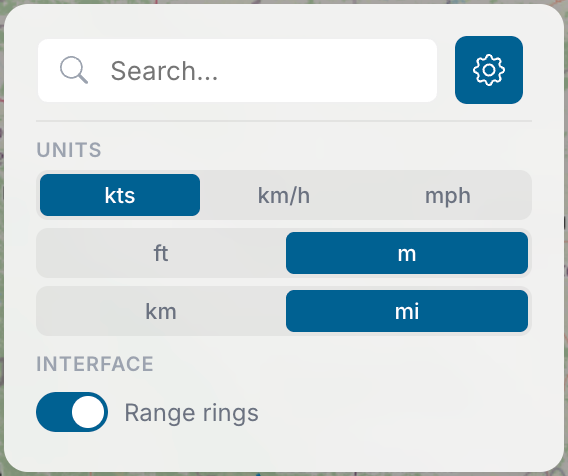
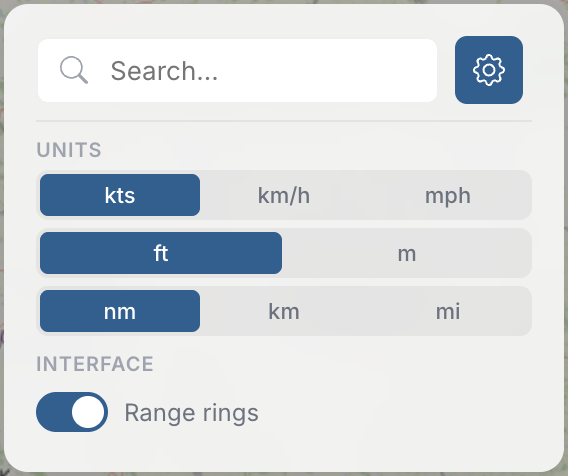
Add nautical miles as default distance unit and fix Web Map aircraft database field mappings

diff --git a/src/Aeromux.CLI/Commands/Daemon/WebMap/Components/AircraftDetail.jsx b/src/Aeromux.CLI/Commands/Daemon/WebMap/Components/AircraftDetail.jsx
@@ -107,18 +107,19 @@ export function AircraftDetail({ detail, expired, units, receiverLocation, onBac
                 ) : (
                     <div class="section-fields">
                         <DetailField label="Registration" value={db.Registration} />
-                        <DetailField label="Country" value={db.RegistrationCountry} />
+                        <DetailField label="Country" value={db.Country} />
                         <DetailField label="Operator" value={db.OperatorName} />
-                        <DetailField label="Manufacturer" value={db.ManufacturerName || db.ManufacturerICAO} />
-                        <DetailField label="Type" value={db.TypeDescription || db.TypeDesignator} />
-                        <DetailField label="Model" value={db.AircraftModel} />
+                        <DetailField label="Manufacturer Name" value={db.ManufacturerName} />
+                        <DetailField label="Type Description" value={db.TypeDescription} />
+                        <DetailField label="Aircraft Model" value={db.Model} />
                         {showMore.db && (
                             <>
-                                <DetailField label="Type Class ICAO" value={db.TypeClassICAO} />
-                                <DetailField label="Type Designator" value={db.TypeDesignator} />
-                                <DetailField label="FAA PIA" value={fmtBool(db.FlagPIA)} />
-                                <DetailField label="FAA LADD" value={fmtBool(db.FlagLADD)} />
-                                <DetailField label="Military" value={fmtBool(db.FlagMilitary)} />
+                                <DetailField label="Manufacturer ICAO" value={db.ManufacturerIcao} />
+                                <DetailField label="Type Class ICAO" value={db.TypeIcaoClass} />
+                                <DetailField label="Type Designator" value={db.TypeCode} />
+                                <DetailField label="FAA PIA" value={fmtBool(db.Pia)} />
+                                <DetailField label="FAA LADD" value={fmtBool(db.Ladd)} />
+                                <DetailField label="Military" value={fmtBool(db.Military)} />
                             </>
                         )}
                     </div>

diff --git a/src/Aeromux.CLI/Commands/Daemon/WebMap/Map/MapManager.js b/src/Aeromux.CLI/Commands/Daemon/WebMap/Map/MapManager.js
@@ -322,9 +322,9 @@ export function getViewportBounds() {
     };
 }
 
-// Range rings — distances in statute miles, converted to km for haversine calculations
-const RANGE_MI = [115, 175, 235];
-const MI_TO_KM = 1.60934;
+// Range rings — distances in nautical miles, converted to km for haversine calculations
+const RANGE_NM = [100, 150, 200];
+const NM_TO_KM = 1.852;
 let rangeRingsAdded = false;
 let pendingRangeRings = null;
 
@@ -439,24 +439,26 @@ export function updateRangeRings(lat, lon, visible, distanceUnit) {
         return;
     }
 
-    // Build ring polygons — convert statute miles to km for the haversine circle generator
-    const ringFeatures = RANGE_MI.map(mi => ({
+    // Build ring polygons — convert nautical miles to km for the haversine circle generator
+    const ringFeatures = RANGE_NM.map(nm => ({
         type: 'Feature',
-        geometry: { type: 'LineString', coordinates: generateCircleCoords(lat, lon, mi * MI_TO_KM) },
+        geometry: { type: 'LineString', coordinates: generateCircleCoords(lat, lon, nm * NM_TO_KM) },
         properties: {}
     }));
 
     // Build label points (at north edge of each ring)
-    const labelFeatures = RANGE_MI.map(mi => {
-        const radiusKm = mi * MI_TO_KM;
+    const labelFeatures = RANGE_NM.map(nm => {
+        const radiusKm = nm * NM_TO_KM;
         const coords = generateCircleCoords(lat, lon, radiusKm, 64);
         // North point is at index 0 (bearing 0)
         const northPt = coords[0];
         let label;
-        if (distanceUnit === 'mi') {
-            label = `${mi} mi`;
+        if (distanceUnit === 'nm') {
+            label = `${nm} nm`;
+        } else if (distanceUnit === 'mi') {
+            label = `${Math.round(nm * 1.15078)} mi`;
         } else {
-            label = `${Math.round(mi * MI_TO_KM)} km`;
+            label = `${Math.round(nm * NM_TO_KM)} km`;
         }
         return {
             type: 'Feature',

diff --git a/src/Aeromux.CLI/Commands/Daemon/WebMap/Services/UnitConversion.js b/src/Aeromux.CLI/Commands/Daemon/WebMap/Services/UnitConversion.js
@@ -20,7 +20,7 @@ const STORAGE_KEY = 'aeromux-units';
 const DEFAULTS = {
     speed: 'kts',
     altitude: 'ft',
-    distance: 'km'
+    distance: 'nm'
 };
 
 // Aircraft list sort column and direction persisted across sessions
@@ -80,6 +80,8 @@ export function saveSettings(settings) {
 
 export function convertNauticalMiles(nm, unit) {
     switch (unit) {
+        case 'nm':
+            return { value: Math.round(nm), label: 'nm' };
         case 'mi':
             return { value: Math.round(nm * 1.15078), label: 'mi' };
         default:
@@ -137,6 +139,8 @@ export function convertAltitude(feet, unit) {
 export function convertDistance(km, unit) {
     if (km == null) return { value: null, label: unit };
     switch (unit) {
+        case 'nm':
+            return { value: (km / 1.852).toFixed(1), label: 'nm' };
         case 'mi':
             return { value: (km * 0.621371).toFixed(1), label: 'mi' };
         default:

diff --git a/src/Aeromux.CLI/Commands/Daemon/WebMap/Components/ControlPanel.jsx b/src/Aeromux.CLI/Commands/Daemon/WebMap/Components/ControlPanel.jsx
@@ -168,6 +168,7 @@ export function ControlPanel({ units, onUnitsChange, settings, onSettingsChange,
                         <button class={`unit-btn${units.altitude === 'm' ? ' active' : ''}`} onClick={() => setUnit('altitude', 'm')}>m</button>
                     </div>
                     <div class="unit-group">
+                        <button class={`unit-btn${units.distance === 'nm' ? ' active' : ''}`} onClick={() => setUnit('distance', 'nm')}>nm</button>
                         <button class={`unit-btn${units.distance === 'km' ? ' active' : ''}`} onClick={() => setUnit('distance', 'km')}>km</button>
                         <button class={`unit-btn${units.distance === 'mi' ? ' active' : ''}`} onClick={() => setUnit('distance', 'mi')}>mi</button>
                     </div>

diff --git a/src/Aeromux.CLI/Commands/Live/LiveAircraftTableBuilder.cs b/src/Aeromux.CLI/Commands/Live/LiveAircraftTableBuilder.cs
@@ -202,11 +202,21 @@ internal static class LiveAircraftTableBuilder
                     receiverConfig.Latitude.Value,
                     receiverConfig.Longitude.Value);
 
-                double distanceValue = distanceUnit == DistanceUnit.Miles
-                    ? receiverLocation.DistanceToMiles(aircraft.Position.Coordinate)
-                    : receiverLocation.DistanceToKilometers(aircraft.Position.Coordinate);
+                double distanceValue = distanceUnit switch
+                {
+                    DistanceUnit.NauticalMiles => receiverLocation.DistanceToNauticalMiles(aircraft.Position.Coordinate),
+                    DistanceUnit.Miles => receiverLocation.DistanceToMiles(aircraft.Position.Coordinate),
+                    DistanceUnit.Kilometers => receiverLocation.DistanceToKilometers(aircraft.Position.Coordinate),
+                    _ => receiverLocation.DistanceToNauticalMiles(aircraft.Position.Coordinate)
+                };
 
-                string unitLabel = distanceUnit == DistanceUnit.Miles ? "mi" : "km";
+                string unitLabel = distanceUnit switch
+                {
+                    DistanceUnit.NauticalMiles => "nm",
+                    DistanceUnit.Miles => "mi",
+                    DistanceUnit.Kilometers => "km",
+                    _ => "nm"
+                };
                 distance = $"{distanceValue:F1} {unitLabel}";
             }
             distance = distance.PadLeft(9);
@@ -292,7 +302,13 @@ internal static class LiveAircraftTableBuilder
         }
 
         // Build footer (3 rows with left/right alignment)
-        string distUnitLabel = distanceUnit == DistanceUnit.Miles ? "mi" : "km";
+        string distUnitLabel = distanceUnit switch
+        {
+            DistanceUnit.NauticalMiles => "nm",
+            DistanceUnit.Miles => "mi",
+            DistanceUnit.Kilometers => "km",
+            _ => "nm"
+        };
         string altUnitLabel = altitudeUnit == AltitudeUnit.Feet ? "ft" : "m";
         string speedUnitLabel = speedUnit switch
         {

diff --git a/src/Aeromux.CLI/Commands/Live/LiveAircraftDetailBuilder.cs b/src/Aeromux.CLI/Commands/Live/LiveAircraftDetailBuilder.cs
@@ -190,11 +190,21 @@ internal static class LiveAircraftDetailBuilder
                 receiverConfig.Latitude.Value,
                 receiverConfig.Longitude.Value);
 
-            double dist = distanceUnit == DistanceUnit.Miles
-                ? receiverLocation.DistanceToMiles(aircraft.Position.Coordinate)
-                : receiverLocation.DistanceToKilometers(aircraft.Position.Coordinate);
+            double dist = distanceUnit switch
+            {
+                DistanceUnit.NauticalMiles => receiverLocation.DistanceToNauticalMiles(aircraft.Position.Coordinate),
+                DistanceUnit.Miles => receiverLocation.DistanceToMiles(aircraft.Position.Coordinate),
+                DistanceUnit.Kilometers => receiverLocation.DistanceToKilometers(aircraft.Position.Coordinate),
+                _ => receiverLocation.DistanceToNauticalMiles(aircraft.Position.Coordinate)
+            };
 
-            string unitLabel = distanceUnit == DistanceUnit.Miles ? "mi" : "km";
+            string unitLabel = distanceUnit switch
+            {
+                DistanceUnit.NauticalMiles => "nm",
+                DistanceUnit.Miles => "mi",
+                DistanceUnit.Kilometers => "km",
+                _ => "nm"
+            };
             distance = $"{dist:F1} {unitLabel}";
         }
         else if (aircraft.Position.Coordinate != null)
@@ -1156,7 +1166,13 @@ internal static class LiveAircraftDetailBuilder
         }
 
         // Build footer (2 rows with left/right alignment)
-        string distUnitLabel = distanceUnit == DistanceUnit.Miles ? "mi" : "km";
+        string distUnitLabel = distanceUnit switch
+        {
+            DistanceUnit.NauticalMiles => "nm",
+            DistanceUnit.Miles => "mi",
+            DistanceUnit.Kilometers => "km",
+            _ => "nm"
+        };
         string altUnitLabel = altitudeUnit == AltitudeUnit.Feet ? "ft" : "m";
         string speedUnitLabel = speedUnit switch
         {

diff --git a/src/Aeromux.CLI/Commands/Live/LiveKeyboardHandler.cs b/src/Aeromux.CLI/Commands/Live/LiveKeyboardHandler.cs
@@ -176,9 +176,13 @@ internal static class LiveKeyboardHandler
                 break;
 
             case ConsoleKey.D:
-                state.DistanceUnit = state.DistanceUnit == DistanceUnit.Miles
-                    ? DistanceUnit.Kilometers
-                    : DistanceUnit.Miles;
+                state.DistanceUnit = state.DistanceUnit switch
+                {
+                    DistanceUnit.NauticalMiles => DistanceUnit.Miles,
+                    DistanceUnit.Miles => DistanceUnit.Kilometers,
+                    DistanceUnit.Kilometers => DistanceUnit.NauticalMiles,
+                    _ => DistanceUnit.NauticalMiles
+                };
                 Log.Debug("Distance unit changed to: {Unit}", state.DistanceUnit);
                 break;
 
@@ -564,9 +568,13 @@ internal static class LiveKeyboardHandler
                 }
                 break;
             case ConsoleKey.D:
-                state.DistanceUnit = state.DistanceUnit == DistanceUnit.Miles
-                    ? DistanceUnit.Kilometers
-                    : DistanceUnit.Miles;
+                state.DistanceUnit = state.DistanceUnit switch
+                {
+                    DistanceUnit.NauticalMiles => DistanceUnit.Miles,
+                    DistanceUnit.Miles => DistanceUnit.Kilometers,
+                    DistanceUnit.Kilometers => DistanceUnit.NauticalMiles,
+                    _ => DistanceUnit.NauticalMiles
+                };
                 Log.Debug("Distance unit changed to: {Unit}", state.DistanceUnit);
                 break;
             case ConsoleKey.A:

diff --git a/src/Aeromux.CLI/Commands/Live/LiveDisplayTypes.cs b/src/Aeromux.CLI/Commands/Live/LiveDisplayTypes.cs
@@ -21,7 +21,7 @@ namespace Aeromux.CLI.Commands.Live;
 /// <summary>
 /// Unit for distance display (miles or kilometers).
 /// </summary>
-internal enum DistanceUnit { Miles, Kilometers }
+internal enum DistanceUnit { NauticalMiles, Miles, Kilometers }
 
 /// <summary>
 /// Unit for altitude display (feet or meters).
@@ -70,7 +70,7 @@ internal sealed class LiveTuiState
     public bool DetailAircraftExpired { get; set; }
 
     // Display units
-    public DistanceUnit DistanceUnit { get; set; } = DistanceUnit.Miles;
+    public DistanceUnit DistanceUnit { get; set; } = DistanceUnit.NauticalMiles;
     public AltitudeUnit AltitudeUnit { get; set; } = AltitudeUnit.Feet;
     public SpeedUnit SpeedUnit { get; set; } = SpeedUnit.Knots;
 
@@ -95,7 +95,7 @@ internal sealed class LiveTuiState
     {
         SortColumn = SortColumn.ICAO;
         SortDirection = SortDirection.Ascending;
-        DistanceUnit = DistanceUnit.Miles;
+        DistanceUnit = DistanceUnit.NauticalMiles;
         AltitudeUnit = AltitudeUnit.Feet;
         SpeedUnit = SpeedUnit.Knots;
         IsSearchActive = false;

diff --git a/tests/Aeromux.Core.Tests/Tracking/AircraftStateTrackerTestsBase.cs b/tests/Aeromux.Core.Tests/Tracking/AircraftStateTrackerTestsBase.cs
@@ -90,6 +90,8 @@ public class AircraftStateTrackerTestsBase : IDisposable
     /// <param name="because">Failure message describing what was expected</param>
     protected static void WaitForCondition(Func<bool> condition, TimeSpan timeout, string because)
     {
+        ArgumentNullException.ThrowIfNull(condition);
+
         DateTime deadline = DateTime.UtcNow + timeout;
         while (DateTime.UtcNow < deadline)
         {

diff --git a/docs/TUI.md b/docs/TUI.md
@@ -137,7 +137,7 @@ The following keyboard shortcuts are available in the aircraft list view:
 | `Home`         | Jump the selection to the first aircraft in the list                                |
 | `End`          | Jump the selection to the last aircraft in the list                                 |
 | `Enter`        | Open the detail view for the currently selected aircraft                            |
-| `D`            | Toggle the distance display unit between miles and kilometers                       |
+| `D`            | Cycle the distance display unit through nautical miles, miles, and kilometers       |
 | `A`            | Toggle the altitude display unit between feet and meters                            |
 | `S`            | Cycle the speed display unit through knots, kilometers per hour, and miles per hour |
 | `F1`–`F6`      | Sort the aircraft list by a column — see [Sorting](#sorting) for details            |
@@ -156,7 +156,7 @@ The following keyboard shortcuts are available in the aircraft detail view:
 | `Page Up/Down` | Same as `←` / `→` — move the selection by one page                                            |
 | `Home`         | Jump the selection to the first data field in the detail view                                 |
 | `End`          | Jump the selection to the last data field in the detail view                                  |
-| `D`            | Toggle the distance display unit between miles and kilometers                                 |
+| `D`            | Cycle the distance display unit through nautical miles, miles, and kilometers                 |
 | `A`            | Toggle the altitude display unit between feet and meters                                      |
 | `S`            | Cycle the speed display unit through knots, kilometers per hour, and miles per hour           |
 | `/`            | Enter search mode to search field names — see [Detail View Search](#detail-view-search)       |
@@ -244,11 +244,11 @@ The search input accepts up to 15 characters, including letters (displayed in up
 
 Three measurement units can be toggled independently in both the aircraft list and the detail view, allowing you to switch between unit systems without leaving the current view:
 
-| Key | Unit     | Options                              | Default |
-|-----|----------|--------------------------------------| --------|
-| `D` | Distance | Miles (mi) / Kilometers (km)         | Miles   |
-| `A` | Altitude | Feet (ft) / Meters (m)               | Feet    |
-| `S` | Speed    | Knots (kts) / km/h / mph             | Knots   |
+| Key | Unit     | Options                                            | Default        |
+|-----|----------|----------------------------------------------------|----------------|
+| `D` | Distance | Nautical miles (nm) / Miles (mi) / Kilometers (km) | Nautical miles |
+| `A` | Altitude | Feet (ft) / Meters (m)                             | Feet           |
+| `S` | Speed    | Knots (kts) / km/h / mph                           | Knots          |
 
 The currently selected units are displayed in the status footer row on the right side. Pressing `F12` resets all display units, the sort column, and any active search back to their default values. The current row selection is preserved when resetting.
 

diff --git a/CHANGELOG.md b/CHANGELOG.md
@@ -7,7 +7,7 @@ All notable changes to Aeromux will be documented in this file.
 ### Added
 
 - **Web Map** — Built-in browser-based map for real-time aircraft visualization with interactive aircraft list, detail view, position trails, and real-time updates via SignalR. Served directly by the daemon with no external web server required. See the [Web Map Guide](docs/WEBMAP.md).
-- **Web Map Range Rings** — Three range rings (115/175/235 mi) centered on the receiver location with distance labels and a center point marker. Distances follow the selected unit (miles or kilometers). Toggleable from the settings panel.
+- **Web Map Range Rings** — Three range rings (100/150/200 nm) centered on the receiver location with distance labels and a center point marker. Distances follow the selected unit (nautical miles, kilometers, or miles). Toggleable from the settings panel.
 - **Web Map Search Highlighting** — Matched text is highlighted in orange in the search dropdown across callsign, ICAO, and registration fields.
 - **Web Map Sortable Columns** — Aircraft list columns (callsign, altitude, speed, distance) are sortable by clicking headers, with sort preferences persisted in the browser.
 - **Web Map Settings Panel** — Unified control panel with search input, unit switching (speed, altitude, distance), and interface settings behind a gear icon.
@@ -19,6 +19,7 @@ All notable changes to Aeromux will be documented in this file.
 - **Substring Search** — Aircraft search API changed from prefix matching to substring matching, allowing queries like "65" to find "WZZ652".
 - **Rate Limiting Removed** — Removed API rate limiting. Rate limiting belongs at the reverse proxy layer for local network APIs.
 - **Aircraft Detail Fields** — Added magnetic declination, downlink request, utility message, data link capability, and supported BDS registers to the detail endpoint and web map detail view.
+- **Nautical Miles** — Added nautical miles (nm) as a distance unit in the web map and TUI, now the default. Distance can be toggled between nautical miles, statute miles, and kilometers.
 
 ### Documentation
 

diff --git a/docs/WEBMAP.md b/docs/WEBMAP.md
@@ -38,7 +38,7 @@ When an aircraft is selected, a blue gradient trail is drawn along its recent fl
 
 ### Range Rings
 
-Three range rings centered on the receiver location indicate distances of 115, 175, and 235 miles from the receiver. Each ring is labeled with its distance, displayed in the currently selected distance unit (miles or kilometers). The receiver location is marked with a small blue circle at the center.
+Three range rings centered on the receiver location indicate distances of 100, 150, and 200 nautical miles from the receiver. Each ring is labeled with its distance, displayed in the currently selected distance unit (nautical miles, kilometers, or miles). The receiver location is marked with a small blue circle at the center.
 
 Range rings can be toggled on or off from the settings panel. They are enabled by default. When the receiver location is not configured, range rings are not displayed.
 
@@ -124,11 +124,11 @@ The gear icon next to the search input opens the settings dropdown, which provid
 
 Three measurement units can be switched independently:
 
-| Unit     | Options                      | Default    |
-|----------|------------------------------|------------|
-| Speed    | Knots (kts) / km/h / mph     | Knots      |
-| Altitude | Feet (ft) / Meters (m)       | Feet       |
-| Distance | Kilometers (km) / Miles (mi) | Kilometers |
+| Unit     | Options                                            | Default        |
+|----------|----------------------------------------------------|----------------|
+| Speed    | Knots (kts) / km/h / mph                           | Knots          |
+| Altitude | Feet (ft) / Meters (m)                             | Feet           |
+| Distance | Nautical miles (nm) / Kilometers (km) / Miles (mi) | Nautical miles |
 
 Unit changes are applied immediately across the entire interface — the aircraft list, detail view, hover tooltip, and range ring labels all update to reflect the selected units. Unit preferences are persisted in the browser and restored on the next visit.
 
